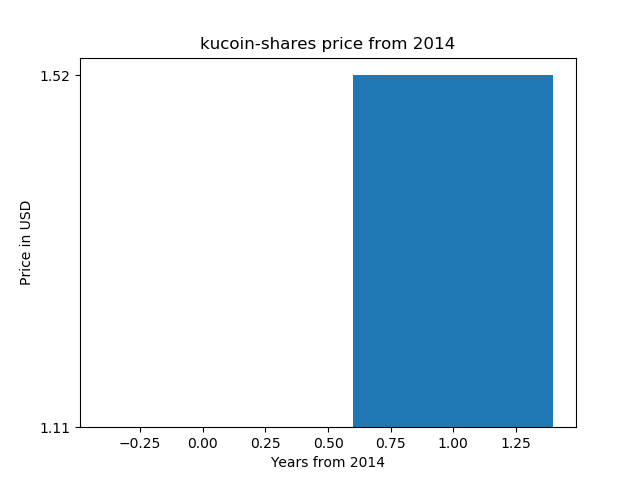
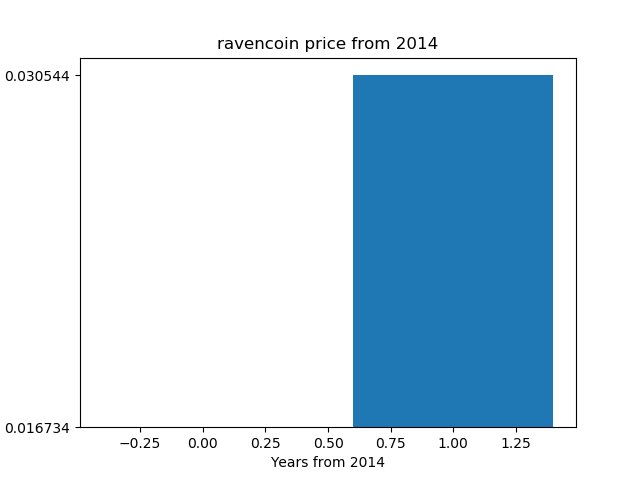
first commit

diff --git a/example.py b/example.py
@@ -10,7 +10,7 @@ from time import gmtime, strftime
 import matplotlib.pyplot as plt
 
 enddate = strftime("%Y%m%d", gmtime())
-r  = requests.get("https://coinmarketcap.com/currencies/kucoin-shares/historical-data/?start=20140101&end={0}".format(enddate))
+r  = requests.get("https://coinmarketcap.com/currencies/ravencoin/historical-data/?start=20140101&end={0}".format(enddate))
 data = r.text
 
 soup = BeautifulSoup(data, "html.parser")
@@ -37,7 +37,7 @@ print(prices)
 
 x = list(range(0, len(prices)))
 
-plt.title('kucoin-shares price from 2014')
+plt.title('ravencoin price from 2014')
 plt.ylabel('Price in USD')
 plt.xlabel('Years from 2014')
 plt.bar(x, prices)

diff --git a/README.md b/README.md
@@ -1,6 +1,6 @@
-# kucoin-shares price chart 
+# ravencoin price chart 
 
-kucoin-shares price chart (matplotlib, python)
+ravencoin price chart (matplotlib, python)
 
 https://pythonprogramminglanguage.com
 
